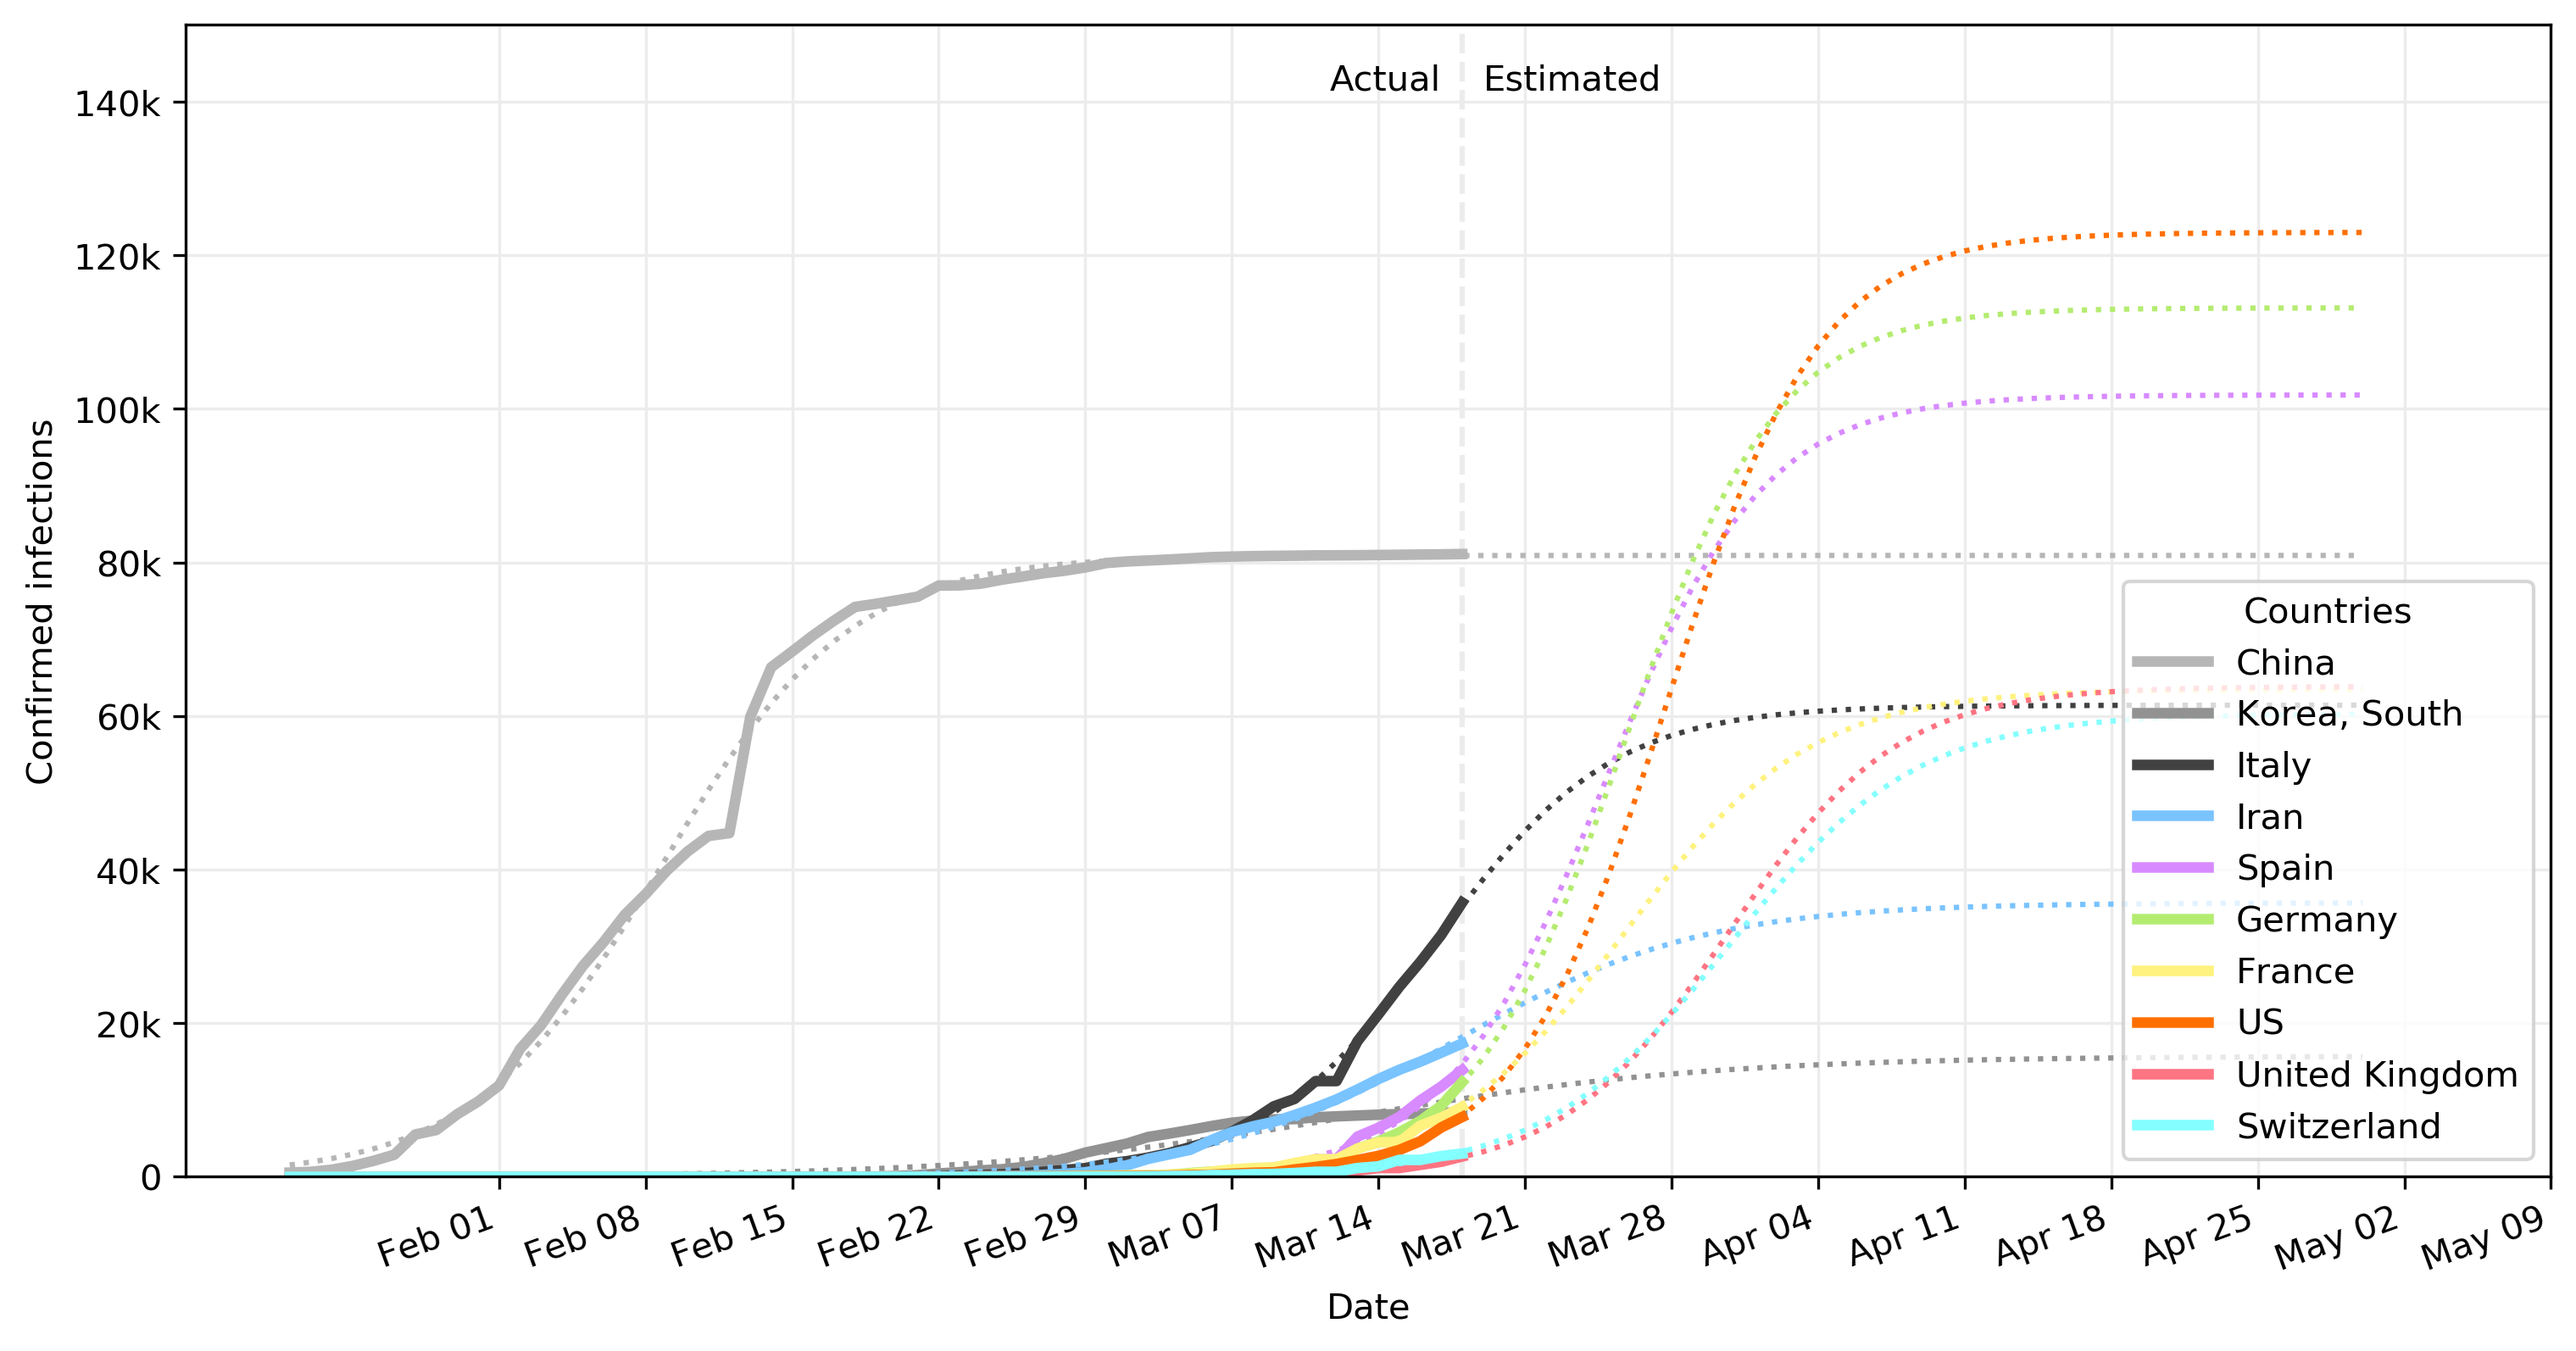
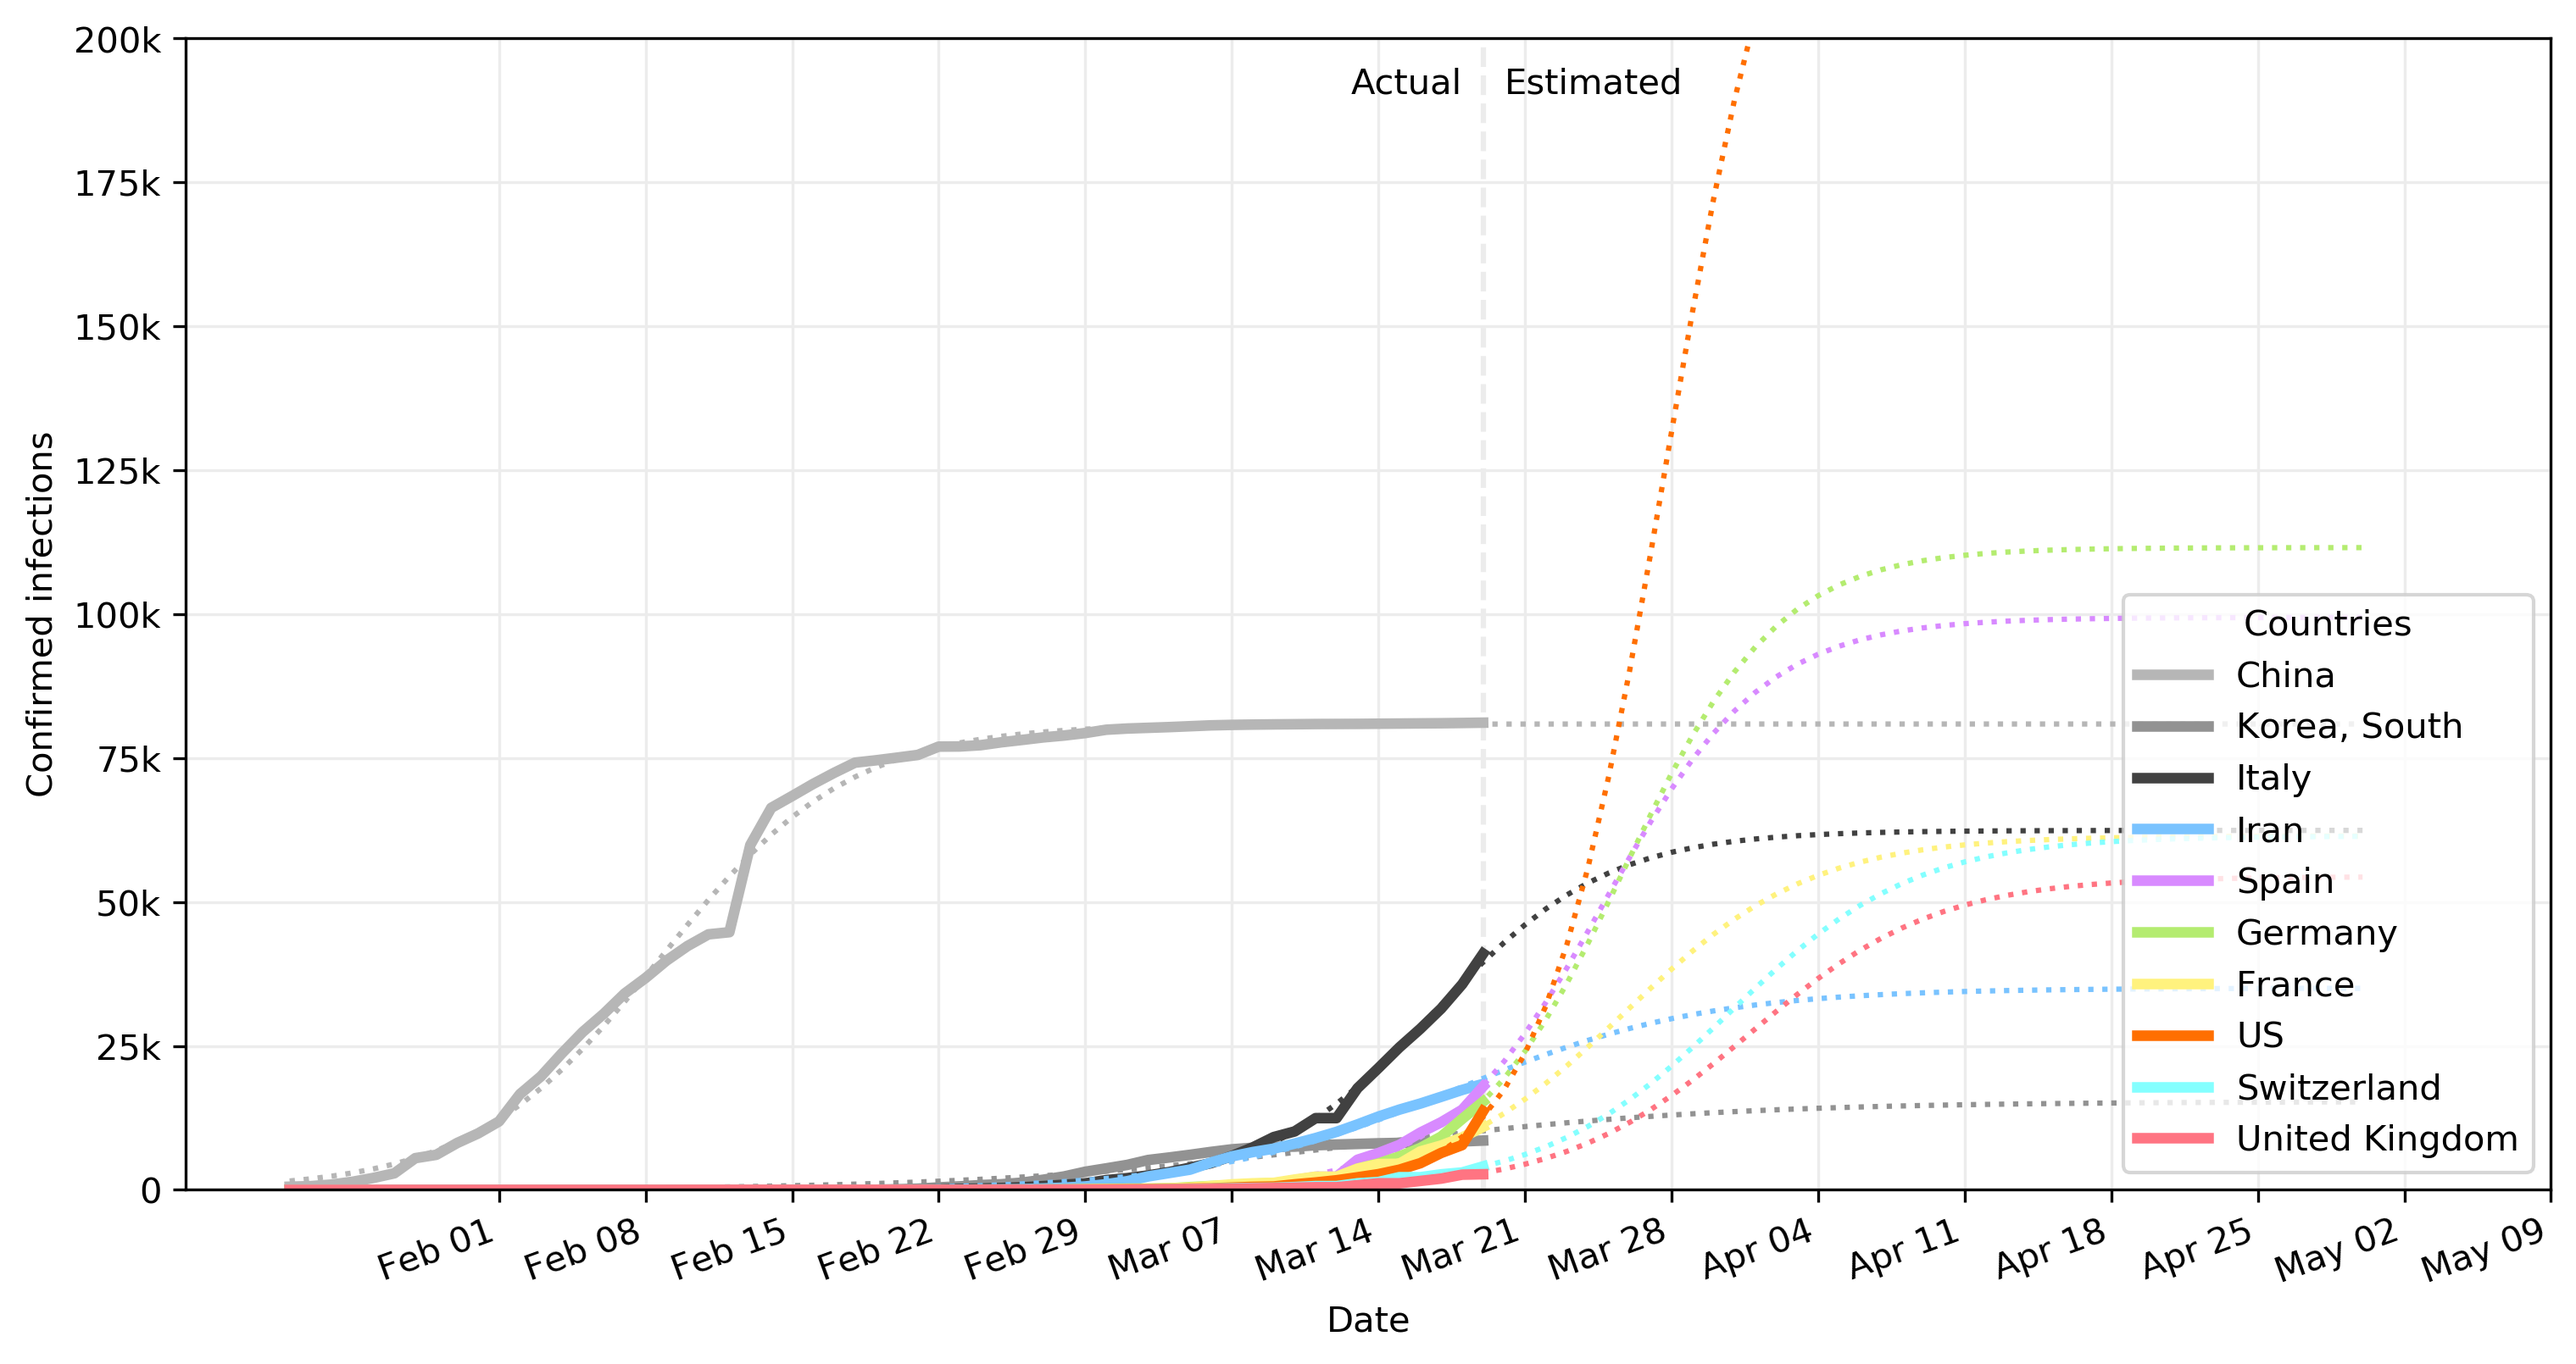
update

diff --git a/README.md b/README.md
@@ -12,7 +12,7 @@ Summary by country
 **Notes**
 
 - Data is from <https://github.com/CSSEGISandData/COVID-19>
-- Last updated on 3/17/2020
+- Last updated on 3/20/2020
 
 ## Initial project setup
 
